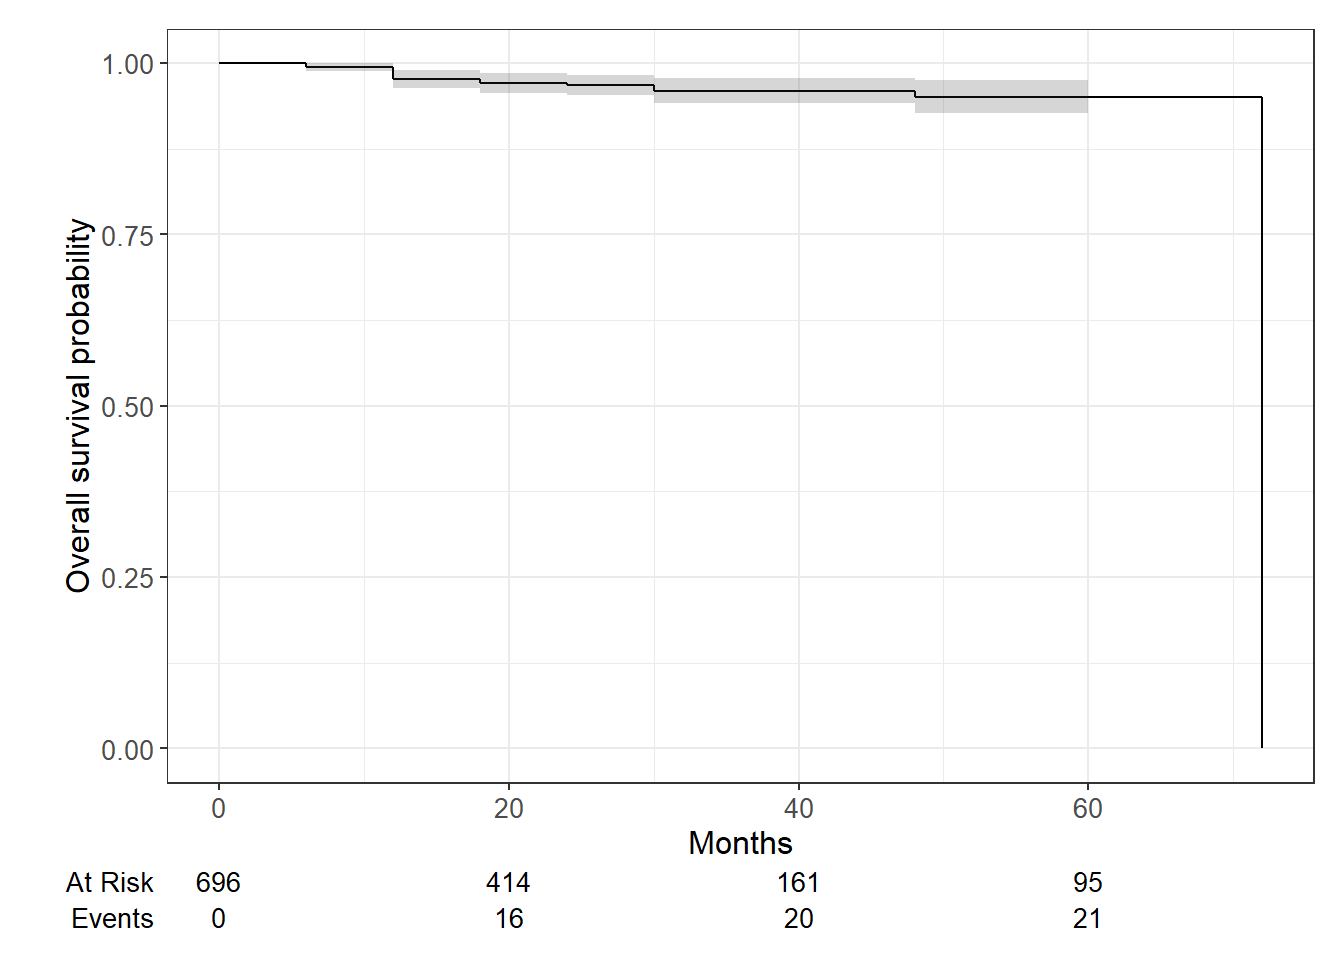
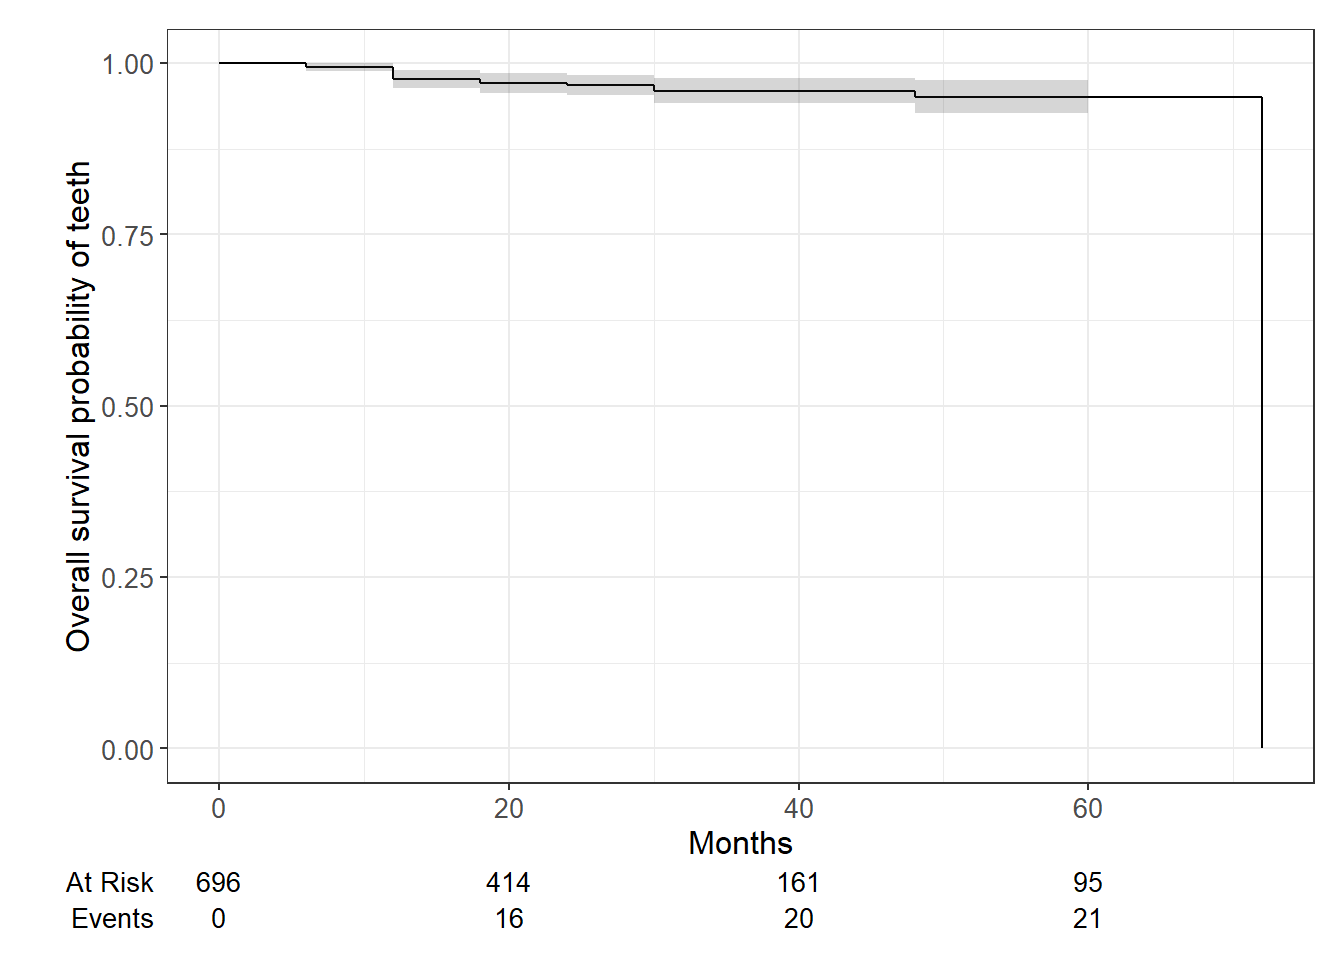
1/17/2024

Changed region(s): [[0.0312, 0.1562, 0.0938, 0.6875]]

diff --git a/docs/2023_12_03_Cem.html b/docs/2023_12_03_Cem.html
@@ -388,7 +388,7 @@ aria-hidden="true"></span> </a>
 <div class="tab-content">
 <div id="summary" class="tab-pane fade in active">
 <p>
-<strong>Last updated:</strong> 2024-01-16
+<strong>Last updated:</strong> 2024-01-17
 </p>
 <p>
 <strong>Checks:</strong> <span
@@ -548,15 +548,15 @@ analysis/Rfunctions.R
 <div class="panel panel-default">
 <div class="panel-heading">
 <p class="panel-title">
-<a data-toggle="collapse" data-parent="#workflowr-checks" href="#strongRepositoryversionstrongahrefhttpsgithubcomhan16Collaborationstree68deee2dfe824ebebcf4f6bac41e38e92938863btargetblank68deee2a">
+<a data-toggle="collapse" data-parent="#workflowr-checks" href="#strongRepositoryversionstrongahrefhttpsgithubcomhan16Collaborationstree382e4de405c4749893dd5a825246a4cbc82cf4fdtargetblank382e4dea">
 <span class="glyphicon glyphicon-ok text-success"
 aria-hidden="true"></span> <strong>Repository version:</strong>
-<a href="https://github.com/han16/Collaborations/tree/68deee2dfe824ebebcf4f6bac41e38e92938863b" target="_blank">68deee2</a>
+<a href="https://github.com/han16/Collaborations/tree/382e4de405c4749893dd5a825246a4cbc82cf4fd" target="_blank">382e4de</a>
 </a>
 </p>
 </div>
 <div
[2 lines of base64/hex data omitted]
 class="panel-collapse collapse">
 <div class="panel-body">
 <p>
@@ -566,7 +566,7 @@ reproducibility.
 </p>
 <p>
 The results in this page were generated with repository version
-<a href="https://github.com/han16/Collaborations/tree/68deee2dfe824ebebcf4f6bac41e38e92938863b" target="_blank">68deee2</a>.
+<a href="https://github.com/han16/Collaborations/tree/382e4de405c4749893dd5a825246a4cbc82cf4fd" target="_blank">382e4de</a>.
 See the <em>Past versions</em> tab to see a history of the changes made
 to the R Markdown and HTML files.
 </p>
@@ -632,6 +632,40 @@ Message
 </tr>
 </thead>
 <tbody>
+<tr>
+<td>
+Rmd
+</td>
+<td>
+<a href="https://github.com/han16/Collaborations/blob/382e4de405c4749893dd5a825246a4cbc82cf4fd/analysis/2023_12_03_Cem.Rmd" target="_blank">382e4de</a>
+</td>
+<td>
+han
+</td>
+<td>
+2024-01-16
+</td>
+<td>
+1/16/2024
+</td>
+</tr>
+<tr>
+<td>
+html
+</td>
+<td>
+<a href="https://rawcdn.githack.com/han16/Collaborations/382e4de405c4749893dd5a825246a4cbc82cf4fd/docs/2023_12_03_Cem.html" target="_blank">382e4de</a>
+</td>
+<td>
+han
+</td>
+<td>
+2024-01-16
+</td>
+<td>
+1/16/2024
+</td>
+</tr>
 <tr>
 <td>
 Rmd
@@ -1016,12 +1050,14 @@ han
 </div>
 </div>
 <ul>
-<li>only include HT and TT</li>
+<li><p>only include HT and TT</p></li>
+<li><p>numbers are for teeth, not patients and one patient may have
+multiple teeth</p></li>
 </ul>
 </div>
 </div>
-<div id="patient-age-between-tt-and-ht" class="section level2">
-<h2>patient age between TT and HT</h2>
+<div id="teeth-age-between-tt-and-ht" class="section level2">
+<h2>teeth age between TT and HT</h2>
 <pre class="r"><code>sample1=data_ssc_survival %&gt;% filter(`SSC Placement Technique`==1) %&gt;% select(`Age on Tx Date`) %&gt;% pull()
 sample2=data_ssc_survival %&gt;% filter(`SSC Placement Technique`==2) %&gt;% select(`Age on Tx Date`) %&gt;% pull()
 t.test(sample1, sample2)</code></pre>
@@ -1036,6 +1072,9 @@ alternative hypothesis: true difference in means is not equal to 0
 sample estimates:
 mean of x mean of y 
  84.07556  72.46934 </code></pre>
+<ul>
+<li>teeth age between two techniques.</li>
+</ul>
 <div id="kaplan-meier-survival-analyses" class="section level3">
 <h3>Kaplan-Meier survival analyses</h3>
 <pre><code>List of 16
@@ -1066,7 +1105,82 @@ mean of x mean of y
    30    357       3    0.960 0.00900        0.942        0.978
    48    108       1    0.951 0.01256        0.927        0.976
    72     90      90    0.000     NaN           NA           NA</code></pre>
-<p><img src="figure/2023_12_03_Cem.Rmd/unnamed-chunk-4-1.png" width="672" style="display: block; margin: auto;" /><img src="figure/2023_12_03_Cem.Rmd/unnamed-chunk-4-2.png" width="672" style="display: block; margin: auto;" /></p>
+<p><img src="figure/2023_12_03_Cem.Rmd/unnamed-chunk-4-1.png" width="672" style="display: block; margin: auto;" /></p>
+<p>
+<button type="button" class="btn btn-default btn-xs btn-workflowr btn-workflowr-fig" data-toggle="collapse" data-target="#fig-unnamed-chunk-4-1">
+Past versions of unnamed-chunk-4-1.png
+</button>
+</p>
+<div id="fig-unnamed-chunk-4-1" class="collapse">
+<div class="table-responsive">
+<table class="table table-condensed table-hover">
+<thead>
+<tr>
+<th>
+Version
+</th>
+<th>
+Author
+</th>
+<th>
+Date
+</th>
+</tr>
+</thead>
+<tbody>
+<tr>
+<td>
+<a href="https://github.com/han16/Collaborations/blob/382e4de405c4749893dd5a825246a4cbc82cf4fd/docs/figure/2023_12_03_Cem.Rmd/unnamed-chunk-4-1.png" target="_blank">382e4de</a>
+</td>
+<td>
+han
+</td>
+<td>
+2024-01-16
+</td>
+</tr>
+</tbody>
+</table>
+</div>
+</div>
+<p><img src="figure/2023_12_03_Cem.Rmd/unnamed-chunk-4-2.png" width="672" style="display: block; margin: auto;" /></p>
+<p>
+<button type="button" class="btn btn-default btn-xs btn-workflowr btn-workflowr-fig" data-toggle="collapse" data-target="#fig-unnamed-chunk-4-2">
+Past versions of unnamed-chunk-4-2.png
+</button>
+</p>
+<div id="fig-unnamed-chunk-4-2" class="collapse">
+<div class="table-responsive">
+<table class="table table-condensed table-hover">
+<thead>
+<tr>
+<th>
+Version
+</th>
+<th>
+Author
+</th>
+<th>
+Date
+</th>
+</tr>
+</thead>
+<tbody>
+<tr>
+<td>
+<a href="https://github.com/han16/Collaborations/blob/382e4de405c4749893dd5a825246a4cbc82cf4fd/docs/figure/2023_12_03_Cem.Rmd/unnamed-chunk-4-2.png" target="_blank">382e4de</a>
+</td>
+<td>
+han
+</td>
+<td>
+2024-01-16
+</td>
+</tr>
+</tbody>
+</table>
+</div>
+</div>
 <ul>
 <li><p><a
 href="https://www.emilyzabor.com/tutorials/survival_analysis_in_r_tutorial.html">reference</a></p></li>
@@ -1087,8 +1201,8 @@ SSC_Placement_Technique=2 471       58     56.2    0.0594     0.743
 
  Chisq= 0.7  on 1 degrees of freedom, p= 0.4 </code></pre>
 <ul>
-<li>there is a significant difference in survival time between TT and
-HT</li>
+<li>large p value indicates no statistical difference in survival time
+between TT and HT</li>
 </ul>
 </div>
 </div>
